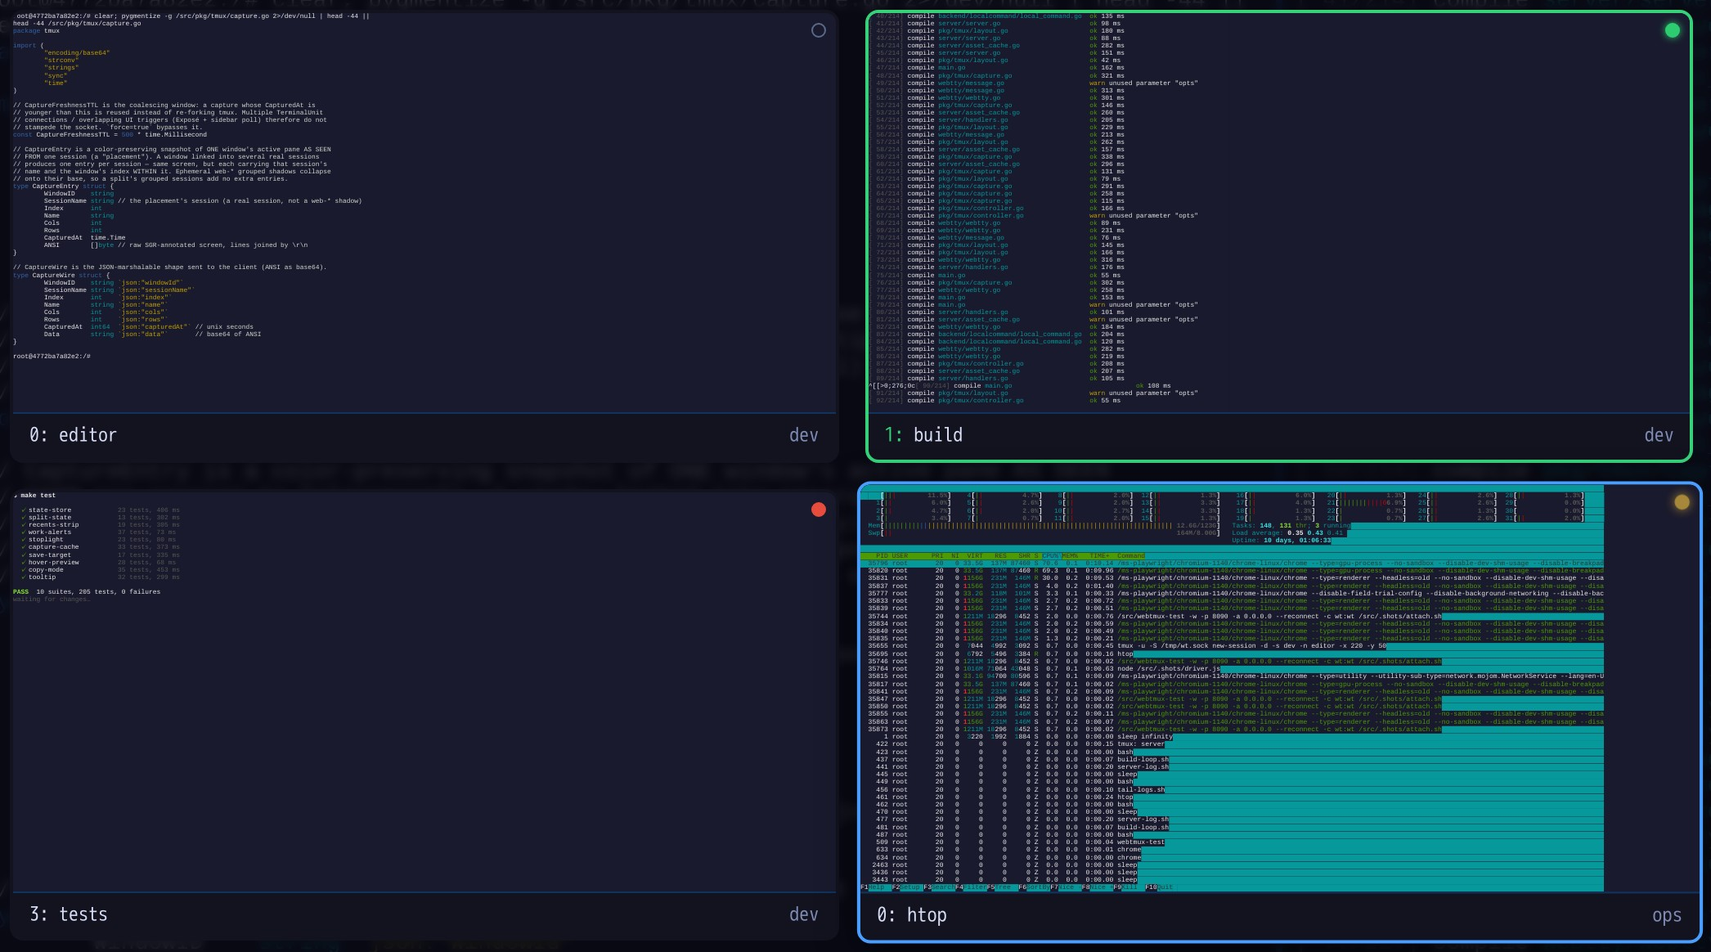
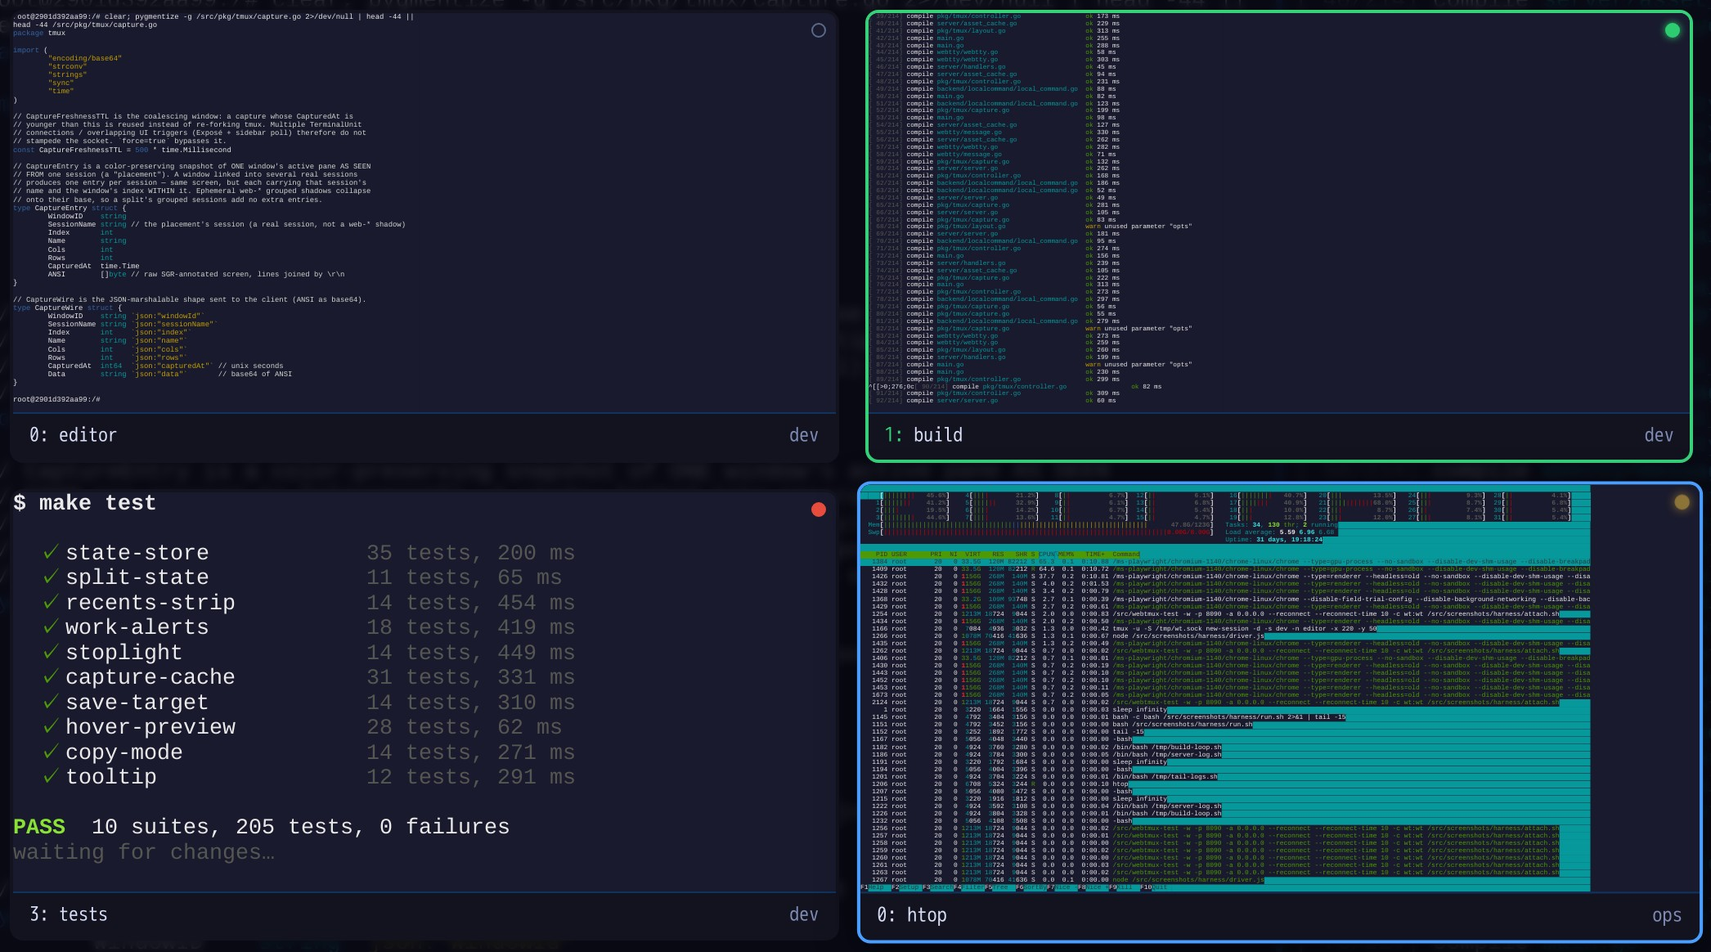
docs(readme): refresh the Unique Features tour and its screenshots
Every screenshot and gif is re-recorded against the current build; the July
takes still showed tmux's status bar and predated most of the toolbar.

New in the tour: the sidebar's all-windows view, the per-session new-window
menu, kill progress, path-trimming rename, the fitted recents strip, the
resizable preview bar, stoplight durations, the split region picker, file
upload/download, the scrollback and link menus, and watch-only mode.

Harness: save-file follows the "Save all" label, stoplights gives htop a tab
off camera, a preview-bar-resize gif scene, and driver-features.js for the
new stills.

diff --git a/screenshots/harness/driver-features.js b/screenshots/harness/driver-features.js
@@ -1,0 +1,158 @@
+// Stills for the README sections added after the first tour: the sidebar's
+// all-windows tree and new-window menu, the stoplight duration badge, the split
+// region picker, file transfer, and the scrollback and link menus.
+// Run with DRIVER=driver-features.js (see run.sh); writes into SHOT_DIR.
+const { chromium } = require('playwright');
+const { execSync } = require('child_process');
+
+const OUT = process.env.SHOT_DIR || '/src/screenshots';
+const URL = 'http://localhost:8090/';
+const SOCK = '/tmp/wt.sock';
+const sleep = (ms) => new Promise((r) => setTimeout(r, ms));
+const tmux = (args) => execSync(`tmux -u -S ${SOCK} ${args}`, { encoding: 'utf8' });
+
+let page;
+const failures = [];
+const chord = (key) => page.keyboard.press(`Control+Alt+${key}`);
+const jpg = (name) => ({ path: `${OUT}/${name}.jpg`, type: 'jpeg', quality: 90 });
+const tb = (sel) => page.evaluate((s) => !!document.querySelector('webtmux-toolbar').shadowRoot.querySelector(s), sel);
+
+async function exposeOpen() {
+  return page.evaluate(() => {
+    const el = document.querySelector('webtmux-expose');
+    return !!el && el.hasAttribute('open');
+  });
+}
+async function goTo(name) {
+  for (let i = 0; i < 4 && await exposeOpen(); i++) { await page.keyboard.press('Escape'); await sleep(300); }
+  await chord('e'); await sleep(600);
+  if (!await exposeOpen()) { await chord('e'); await sleep(600); }
+  const filtering = await page.evaluate(() => !!document.querySelector('webtmux-expose').shadowRoot.querySelector('.head .filter'));
+  if (filtering) { await page.keyboard.press('Escape'); await sleep(300); }
+  await page.keyboard.type(name, { delay: 40 }); await sleep(500);
+  await page.keyboard.press('Enter'); await sleep(1500);
+}
+
+async function shot(name, fn) {
+  try { console.log(`--- ${name}`); await fn(); console.log(`ok  ${name}`); }
+  catch (e) {
+    console.log(`FAIL ${name}: ${e.message}`); failures.push(name);
+    try { await page.screenshot({ path: `${OUT}/_debug-${name}.jpg`, type: 'jpeg', quality: 80 }); } catch {}
+    try { await page.keyboard.press('Escape'); await sleep(400); } catch {}
+  }
+}
+
+// Crop to an element (in its host's shadow root), padded.
+async function clipOf(host, sel, pad = 8, extra = {}) {
+  const r = await page.evaluate(([h, s]) => {
+    const el = document.querySelector(h);
+    const t = s ? el.shadowRoot.querySelector(s) : el;
+    const b = t.getBoundingClientRect();
+    return { x: b.x, y: b.y, width: b.width, height: b.height };
+  }, [host, sel]);
+  return {
+    x: Math.max(0, r.x - pad), y: Math.max(0, r.y - pad),
+    width: r.width + 2 * pad + (extra.w || 0), height: r.height + 2 * pad + (extra.h || 0),
+  };
+}
+
+const setSidebar = (collapsed, overlay) => page.evaluate(([c, o]) => {
+  const sb = document.querySelector('webtmux-sidebar'); sb.collapsed = c; sb.overlay = o;
+}, [collapsed, overlay]);
+
+(async () => {
+  const browser = await chromium.launch();
+  const ctx = await browser.newContext({
+    viewport: { width: 1600, height: 950 }, deviceScaleFactor: 2,
+    httpCredentials: { username: 'wt', password: 'wt' },
+  });
+  page = await ctx.newPage();
+  page.on('dialog', (d) => d.dismiss().catch(() => {}));
+
+  // A new-window menu on the dev session, the way a launcher script declares it.
+  const devId = tmux(`display -p -t dev '#{session_id}'`).trim();
+  tmux(`set-option -t '${devId}' @wt_newcmds '${JSON.stringify([
+    { label: 'shell', cmd: '' },
+    { label: 'secure', cmd: 'docker exec -it dev-box bash' },
+    { label: 'claude', cmd: 'claude' },
+  ])}'`);
+
+  await page.goto(URL, { waitUntil: 'domcontentloaded' });
+  await page.waitForSelector('.xterm', { timeout: 30000 });
+  await sleep(3500);
+  for (const w of ['logs', 'htop', 'server', 'tests', 'build', 'editor']) await goTo(w);
+
+  // Durations: each agent says when it entered its current state.
+  const now = Math.floor(Date.now() / 1000);
+  const light = (t, v, ago) => {
+    tmux(`set -w -t ${t} @wt_working ${v}`);
+    tmux(`set -w -t ${t} @wt_working_since ${now - ago}`);
+  };
+  light('dev:build', 1, 7 * 60);
+  light('dev:tests', 0, 42 * 60);
+  light('ops:htop', 2, 3 * 60);
+  light('dev:server', 3, 18 * 60);
+  light('dev:editor', 1, 95 * 60);
+  light('ops:logs', 0, 4 * 3600);
+  await sleep(2500);
+
+  await shot('stoplight-duration', async () => {
+    await page.locator('webtmux-toolbar').screenshot(jpg('stoplight-duration'));
+  });
+
+  await shot('sidebar-newcmds', async () => {
+    await setSidebar(false, false); await sleep(1200);
+    const plus = page.locator('webtmux-sidebar').getByText('claude', { exact: false }).first();
+    await plus.hover().catch(() => {}); await sleep(1200);
+    const c = await clipOf('webtmux-sidebar', null, 0);
+    await page.screenshot({ ...jpg('sidebar-newcmds'), clip: { ...c, height: Math.min(c.height, 600) } });
+  });
+
+  await shot('sidebar-tree', async () => {
+    await page.mouse.move(400, 500);
+    await page.evaluate(() => document.querySelector('webtmux-sidebar').toggleTree());
+    await sleep(1500);
+    await page.screenshot({ ...jpg('sidebar-tree'), clip: await clipOf('webtmux-sidebar', null, 0) });
+    await page.evaluate(() => document.querySelector('webtmux-sidebar').toggleTree());
+    await setSidebar(true, true); await sleep(800);
+  });
+
+  await shot('scrollback-menu', async () => {
+    await goTo('server'); // a rolling log, so the gauge has something to show
+    await page.locator('webtmux-toolbar').getByLabel('Scrollback buffer').click();
+    await sleep(1800);
+    await page.screenshot({ ...jpg('scrollback-menu'), clip: await clipOf('webtmux-toolbar', '.save-wrap .save-menu, .save-menu', 10) });
+    await page.keyboard.press('Escape'); await page.mouse.click(300, 600); await sleep(600);
+    await goTo('editor');
+  });
+
+  await shot('file-transfer', async () => {
+    await page.locator('webtmux-toolbar').getByText('⤓').first().click();
+    await sleep(1800);
+    await page.screenshot({ ...jpg('file-transfer'), clip: await clipOf('webtmux-toolbar', '.save-menu', 10) });
+    await page.keyboard.press('Escape'); await page.mouse.click(300, 600); await sleep(600);
+  });
+
+  await shot('link-menu', async () => {
+    await page.evaluate(() => document.querySelector('webtmux-toolbar').shadowRoot.querySelector('.spin').click());
+    await sleep(1500);
+    await page.screenshot({ ...jpg('link-menu'), clip: await clipOf('webtmux-toolbar', '.link-menu', 10) });
+    await page.keyboard.press('Escape'); await page.mouse.click(800, 600); await sleep(600);
+  });
+
+  await shot('split-region-picker', async () => {
+    await chord('Enter'); await sleep(3000);
+    const tab = page.locator('webtmux-toolbar').getByText('htop', { exact: true }).first();
+    await tab.hover(); await sleep(1500);
+    if (!await tb('.rpick')) throw new Error('no region picker');
+    const chip = page.locator('webtmux-toolbar').locator('.rpick button, .rpick .chip').nth(1);
+    await chip.hover().catch(() => {}); await sleep(1500);
+    await page.screenshot(jpg('split-region-picker'));
+    await page.mouse.move(800, 600); await sleep(800);
+    await chord('x'); await sleep(1500);
+  });
+
+  await browser.close();
+  console.log(failures.length ? `DONE with failures: ${failures.join(', ')}` : 'DONE all ok');
+  process.exit(failures.length ? 2 : 0);
+})().catch((e) => { console.error(e); process.exit(1); });

diff --git a/screenshots/harness/driver-gifs.js b/screenshots/harness/driver-gifs.js
@@ -348,7 +348,7 @@ const clearLights = () => {
     await btn.hover(); await sleep(800);
     await btn.click();
     await sleep(2200);
-    const save = page.getByText('Save', { exact: true }).first();
+    const save = page.getByText('Save all', { exact: true }).first();
     await save.hover(); await sleep(600);
     await save.click();
     await sleep(3000); // result message names where the file landed
@@ -373,6 +373,11 @@ const clearLights = () => {
 
   // ---- stoplights.gif (toolbar-alerts.gif is a crop of the same take):
   // ---- lights change live; tabs/rows flash until the window is viewed
+  // The strip is fitted to the toolbar width, so make htop recent enough to own a
+  // tab rather than wait in the off-strip queue — off camera (recents are shared).
+  if (!ONLY.length || ONLY.includes('stoplights')) {
+    await offCamera(browser, async () => { await goTo('htop'); await goTo('editor'); });
+  }
   await scene(browser, 'stoplights', async () => {
     clearLights();
     await page.evaluate(() => {
@@ -422,6 +427,32 @@ const clearLights = () => {
     await chord('h');              // hide the preview…
     await sleep(1600);
     await chord('h');              // …and bring it back, windows and placements intact
+    await sleep(2200);
+  });
+
+  // ---- preview-bar-resize.gif: drag the docked bar's inner edge to make the
+  // ---- tiles bigger, drag it back down, double-click to reset
+  await scene(browser, 'preview-bar-resize', async () => {
+    const grip = () => page.evaluate(() => {
+      const g = document.querySelector('webtmux-pip').shadowRoot.querySelector('.bar .grip');
+      if (!g) return null;
+      const b = g.getBoundingClientRect();
+      return { x: b.x + b.width / 2, y: b.y + b.height / 2 };
+    });
+    if (!await grip()) { await goTo('htop'); await chord('i'); await sleep(800); await goTo('editor'); }
+    await sleep(2000);
+    const drag = async (dy) => {
+      const g = await grip();
+      await page.mouse.move(g.x, g.y); await sleep(600);
+      await page.mouse.down();
+      for (let i = 1; i <= 16; i++) { await page.mouse.move(g.x, g.y + (dy * i) / 16); await sleep(60); }
+      await page.mouse.up(); await sleep(2200);
+    };
+    await drag(-170);              // taller bar, bigger tiles
+    await drag(110);               // and back down
+    const g = await grip();
+    await page.mouse.move(g.x, g.y); await sleep(500);
+    await page.mouse.dblclick(g.x, g.y);   // double-click resets the default size
     await sleep(2200);
   }); // last scene: nothing after this needs a clean toolbar
 

diff --git a/README.md b/README.md
@@ -84,6 +84,15 @@ A UI replacement for tmux Prefix+W. Lets you manage windows/sessions - create/de
 ![Sidebar browse replayed: Ctrl+Alt+W opens the panel, hovering rows previews windows live in the real terminal, Esc puts everything back, click commits](screenshots/sidebar.gif)
 
 - Toggle with Ctrl+Alt+W from anywhere.
+- **Two views of your windows.** The button at the top flips between **▤ this
+  session** (the session tabs, with the current session's windows below) and
+  **🌳 all windows**: every session with its windows beneath it, like tmux's
+  `prefix + w` tree. Use it to find a window when you've forgotten which session
+  it's in. Everything below works the same in both views. Arrow keys walk
+  straight across sessions, and ←/→ fold a session away. The choice is
+  remembered.
+
+  ![The sidebar's all-windows view: every session with its windows beneath it, each row carrying its stoplight and how long it has been that way, and each session's own "+" new-window buttons](screenshots/sidebar-tree.jpg)
 - Hover-overlay to have it come up when you need it or pin to have it always stay open.
 - Preview-before-commit browsing: arrow keys and hovering preview windows/sessions live in the real terminal.
   - Enter or click commits.
@@ -92,12 +101,19 @@ A UI replacement for tmux Prefix+W. Lets you manage windows/sessions - create/de
 - Drag windows to reorder.
 - Drag a window onto a session tab to link it there.
 - Hover × kills a window — or just unlinks it when it lives in other sessions too.
-- Double-click renames windows and sessions inline.
+  If it takes a while to die, its row shows a "killing…" progress bar, so a slow kill
+  doesn't look like a click that did nothing.
+- Double-click renames windows and sessions inline. Paste a path into the rename box
+  and you get just the file name: pasting `docs/plan-portable-deps.md` names the
+  window `plan-portable-deps`.
 - "+" creates a session or a window.
 - A session can offer **several kinds of new window**, one "+" per kind, each
   captioned with what it starts. A claude-editors session might offer `+ shell`,
   `+ secure` and `+ claude`: a host prompt, a shell inside a container, and "launch
   the next agent". With no menu configured there is just one "+", as before.
+
+  ![A session with three kinds of new window — + shell, + secure and + claude — the hovered one showing its × and the +… row for adding another](screenshots/sidebar-newcmds.jpg)
+
   - The window still belongs to you: the command is TYPED into a normal shell, so
     Ctrl-C stops it and leaves you at the prompt, up-arrow runs it again, and the
     window outlives the command.
@@ -123,6 +139,7 @@ A tab flashes amber when its window has stopped working, and an arrow flashes wh
 - The toolbar has up to 5 (configurable) most-recently-used window tabs for quick access.
   - control+Option+N/P - used to navigate to the next/previous window in your most-recent list.
   - Remove a window from your most recents with the hover-revealed close button ×
+  - The strip never scrolls sideways. In a narrow browser window, the tabs that don't fit wait in line and come back as you widen it.
   - Past the tab count, windows queue up rather than being forgotten: the strip shows the first 5 and the rest wait in line. Close a tab (or raise the count) and the next one in line slides straight back in. Only × — you saying you are done with a window — removes one for good.
   - Clear the whole strip in one go — hover the **Recent ▾** label for a ✕, or use its menu. That is the one that reaches the queue as well: because closing a tab hands its slot to the next window in line, clicking × down the strip never empties it. It asks first, and nothing is closed or killed — the windows keep running and the split regions keep their views.
   - Shape the tab labels from the **Recent ▾** menu: show the session in front of the name, and trim a name to what follows its first space ("ssh web-01" reads "web-01"). The preview's tiles are labelled the same way, so a window reads the same in both places.
@@ -164,6 +181,9 @@ Keep an eye on specific windows, even while you focus on others.
 - **Arrange the bar by hand: drag a tile where you want it.** The bar draws its tiles in the order you put them in and never reshuffles them, so the window you keep glancing at can live at the end you actually look at. A line shows the gap the tile will land in, along whichever axis the bar is docked on. Dragging a floating corner box onto the bar docks it — at the position you drop it, not at the end. The order is shared state, so it survives a reload and every other browser sees it.
 - Ctrl+Alt+I adds/removes the focused window (bar); Ctrl+Alt+Shift+I pins it to a free corner, or unpins it back to the bar.
 - Dock the bar to any edge with its own buttons: top/bottom/left/right.
+- **Resize the bar by dragging its inner edge** (the one facing the terminal). The tiles grow with it, so you can read a previewed window without opening it. Double-click the edge to go back to the default size. The bar remembers a separate size for top/bottom and left/right docking.
+
+  ![Preview bar resize replayed: dragging the docked bar's inner edge up makes its tiles bigger, dragging it back shrinks them, and a double-click resets the size](screenshots/preview-bar-resize.gif)
 - Ctrl+Alt+H hides/shows the whole preview while keeping the windows in it — and where each one was drawn.
 - Provides another way to quickly switch to high priority windows.
 - A previewed window drops out of the [recent tabs](#toolbar-and-recent-tabs) while it is in here: two ways to reach the same window, one of them showing you its screen, is one too many. Hiding the preview or taking the window out of it puts the tab back in its old slot.
@@ -184,6 +204,11 @@ Keep an eye on specific windows, even while you focus on others.
 
 - Webtmux renders a stoplight dot everywhere the window appears (recents tabs, sidebar rows, preview tiles, Exposé tiles): green = working, green ring = working in the background but free to take input, amber = prompting you, red = waiting for work, unfilled = not reporting.
 - Windows self-report status via the tmux option `@wt_working`.
+- **How long it has been like that.** Next to every dot is a short time: `42m` beside a red dot means that window has been waiting for 42 minutes. In a row of idle agents, that shows you which one has waited longest.
+  - By default it is the time since the window last printed anything. A hook that also sets `@wt_working_since` (Unix seconds when the light last changed) makes it the time in the current state instead.
+  - When both readings exist, click the badge to switch between them. Hover it to see which one you're looking at.
+
+  ![The recents strip with a duration beside each stoplight: htop amber for 3m, build green for 7m, editor green for 1h35m, server in background-green for 18m, tests red for 42m](screenshots/stoplight-duration.jpg)
 - When a window drops out of green while you're looking elsewhere, everything showing it flashes in the new color until you actually view it.
   - Alerts cover every window on the server, not just visible tabs.
 - A bash prompt-hook installer ships in the repo so ordinary shells paint their own light automatically (see below), or you can hook into your agent framework (like Claude).
@@ -197,6 +222,8 @@ Keep an eye on specific windows, even while you focus on others.
 - A draggable divider resizes regions.
 - A new region auto-picks the most-recently-used window not already on screen; two regions never show the same window (occupied windows are greyed out in every switcher).
 - **Choose which region a window opens in.** Hovering a recents tab while the view is split shows a small picture of the split — one chip per region, drawn in the regions' own proportions. Point at a chip to preview the window in that region; click it to send it there. Or just drag the tab onto the region you mean. Sending over a window the other region is already showing makes the two regions **trade** windows, so nothing is left blank and the same gesture puts them back.
+
+  ![The region picker: hovering the htop recents tab in a two-region split shows one chip per region, and pointing at the second chip previews htop in that region](screenshots/split-region-picker.jpg)
 - Secondary regions switch sessions freely without dragging the primary or the console along; a split that gets synced onto a shared session self-heals.
 - Close the focused region with Ctrl+Alt+X (the primary region can't be closed).
 
@@ -269,7 +296,20 @@ A program running on the tmux machine — a CLI printing a login URL, a token, a
 
 - Toolbar ⤓ saves the focused pane's buffer — the **entire scrollback** (the default) or just the visible screen: download to the browser, or write a file on the machine webtmux runs on — container-aware, with the save location explained up front and configurable via `WEBTMUX_SAVE_DIR` / `WEBTMUX_PATH_MAP` / `WEBTMUX_HOME` / `WEBTMUX_IN_CONTAINER` (details in the save section below).
 
+### Upload and download files
+
+The file you want while you're looking at a pane is usually on the machine tmux runs on: a build artifact, a log, a tarball. You don't need a second terminal and an `scp` command to get it. The same ⤓ menu moves files and folders both ways between that machine and the one your browser runs on.
+
+![The ⤓ menu: save the pane's buffer, then Transfer files — Upload from this browser to the machine tmux runs on (choose files or a whole folder), and Download a file or folder from that machine to this browser](screenshots/file-transfer.jpg)
+
+- **↑ Upload:** pick files, or a whole folder, and the folder on the tmux machine to put them in. A folder arrives as a folder.
+- **↓ Download:** type a file or folder path on the tmux machine. A folder downloads as a `.zip`.
+- Every label names both machines in the direction the bytes go ("from this browser to the machine tmux runs on"), so you can't confuse an upload with a download and overwrite the good copy.
+- It works over the connection you already have open, so a session reached through ssh tunnels and jump hosts needs no extra setup. Paths go through the same rules and allowed directories as saving a buffer, and transfers need the server started with `-w`.
+
 ### Scrollback buffer size
+
+![The ⛁ menu: how many lines this window's buffer holds and has used, Resize this window, a New windows default with "Also save it for future tmux servers", and Clear this window's scrollback](screenshots/scrollback-menu.jpg)
 
 - Toolbar ⛁ shows how many lines the focused window's panes can hold, how many
   they are holding, and a gauge that turns amber once a buffer is full — i.e.
@@ -304,6 +344,8 @@ A program running on the tmux machine — a CLI printing a login URL, a token, a
   and not yet answered, and **red** — pulsing — when the link is gone. Amber is
   the state a boolean had to round to one side or the other, and it rounded to
   green; a wedged socket now colours in about two seconds instead of eleven.
+![The link menu: the connection's state in longhand, then the tmux settings — tmux status line, copy from a program to this browser, and run a command when a window is renamed — each saying who else it affects](screenshots/link-menu.jpg)
+
 - **Click it** for the same report in longhand, plus the settings that belong to
   **tmux** rather than to webtmux — the one place on the bar where a control
   changes the tmux server every other client is attached to, so each row says who
@@ -356,6 +398,8 @@ A program running on the tmux machine — a CLI printing a login URL, a token, a
 - Per-connection tmux controller threading: each browser region follows its pane's real tmux client by tty+pid, fixing wrong-client switches (including cross-container pty name collisions, backed by a pts-number reservation, `WEBTMUX_PTS_FLOOR`).
 
 ### Build, server & reliability
+
+- **Watch-only mode.** Start webtmux without `-w` and the page is for watching only. You can watch the window on screen, hover-preview others and look through Exposé. Anything that would change tmux or the machine is off, and that includes switching windows, since other people attached to the session would see it move. Those controls are greyed out and say why, so nothing pretends to work and then quietly doesn't.
 
 Discover which build you are running.
 ![The hidden build-id chip (Ctrl+Alt+B) revealing the commit the running binary was built from](screenshots/build-reliability.jpg)

diff --git a/screenshots/harness/README.md b/screenshots/harness/README.md
@@ -215,6 +215,9 @@ Pieces:
   the system clipboard. This is what established that stock tmux drops the raw sequence
   (`set-clipboard external`) and that tmux ≥3.3 drops the DCS one too
   (`allow-passthrough off`), leaving nothing for the browser to hear.
+- `driver-features.js` — stills for the sections added after the first tour (the
+  sidebar's all-windows view and new-window menu, stoplight durations, the split region
+  picker, file transfer, the ⛁ and link menus). Run it with `DRIVER=driver-features.js`.
 - `driver-gifs.js` — records one video per animated feature, each scene
   replaying its README section's bullets in order (split → drag divider →
   close; hover → preview → restore; lights change → tabs flash until viewed;
